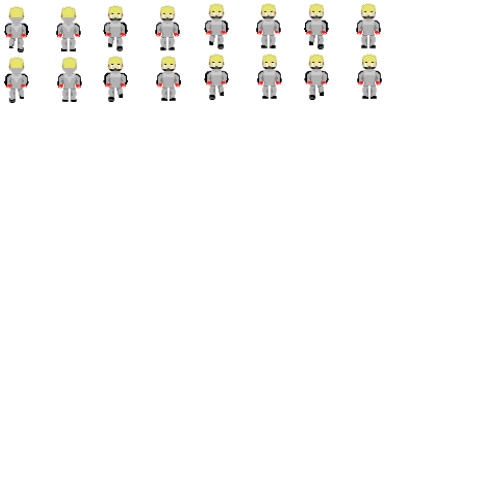
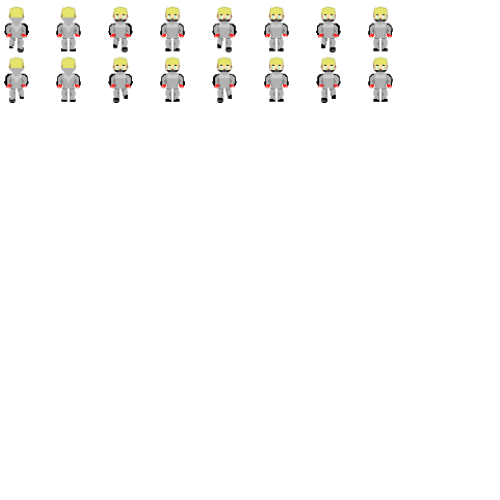
movement upgrade

diff --git a/engine/actors/Player.py b/engine/actors/Player.py
@@ -9,8 +9,8 @@ class Player(pygame.sprite.Sprite):
         self.color = options.color
         self.speed = options.speed
 
-        self.spritesheet = Spritesheet("MC_TopView.png") # Starting with TopView
-        self.image = self.spritesheet.getImage(0, 0, 25, 46)
+        self.spritesheet = Spritesheet("MC_TopViewSheet.png") # Starting with TopView
+        self.image = self.spritesheet.getImage(163, 6, 24, 45)
 
         # TODO: Set up walking frame arrays (ideally via some config code)
 
@@ -26,15 +26,21 @@ class Player(pygame.sprite.Sprite):
 
         self.collidable = True
 
+        self.CoolDown = 300
+
     def toggle_movement(self, direction):
         if direction == 'left':
             self.moving_left = not self.moving_left
+            self.image = self.spritesheet.getImage(263, 6, 24, 45)
         elif direction == 'right':
             self.moving_right = not self.moving_right
+            self.image = self.spritesheet.getImage(363, 6, 24, 45)
         elif direction == 'up':
             self.moving_up = not self.moving_up
+            self.image = self.spritesheet.getImage(63, 6, 24, 45)
         elif direction == 'down':
             self.moving_down = not self.moving_down
+            self.image = self.spritesheet.getImage(163, 6, 24, 45)
 
     def move(self, dx, dy):
         self.rect = self.rect.move(dx, dy)

diff --git a/engine/GameState.py b/engine/GameState.py
@@ -18,7 +18,7 @@ class GameState:
         options.speed = 3
         options.color = (128, 128, 128)
 
-        self.player = Player(options) # TODO: Dependency injection
+        self.player = Player(options) # TODO: Dependency injection 
         # self.gameObjects.append(self.player)
         self.gameObjects.add(self.player)
 
